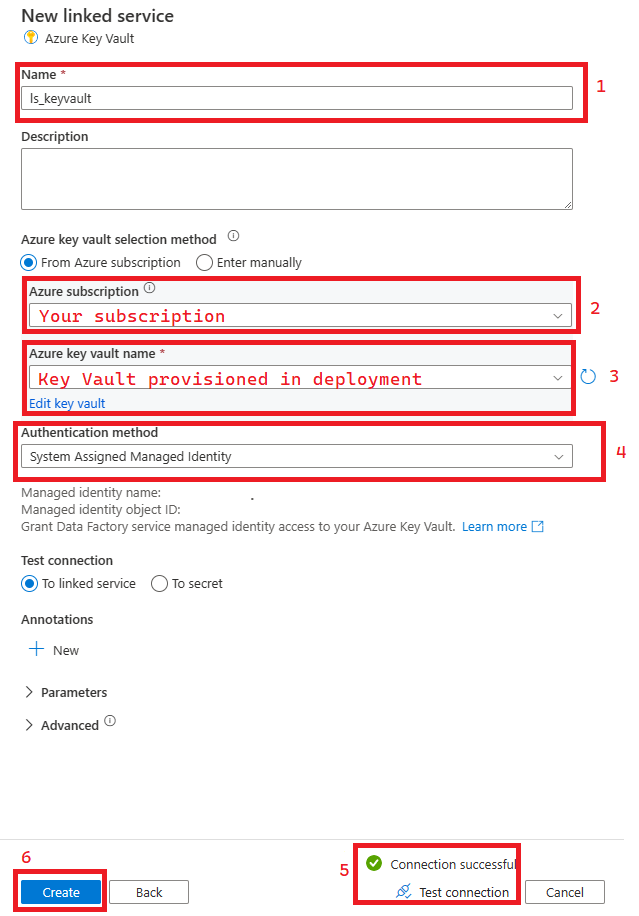
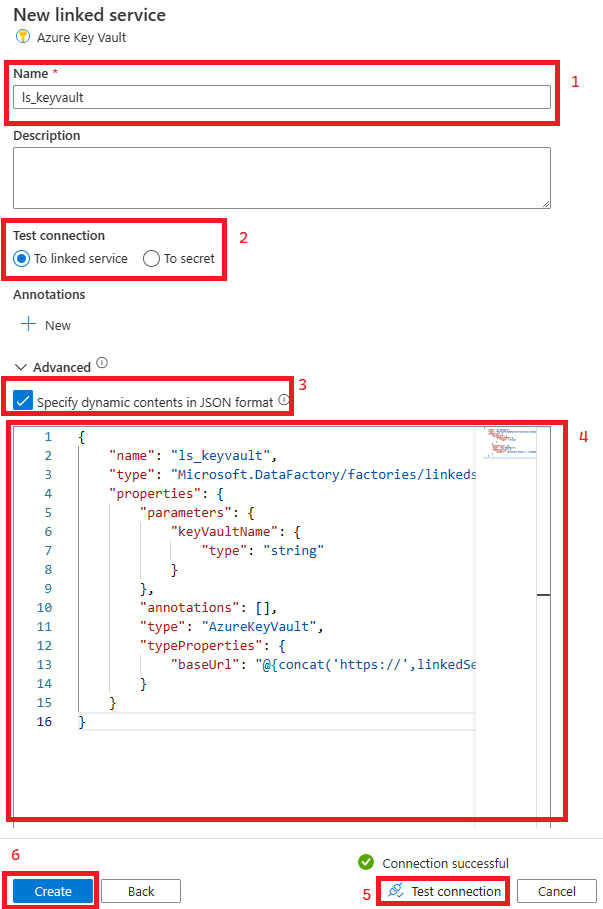
Added walkthrough for parameterized LS

diff --git a/docs/adf/linkedServices.md b/docs/adf/linkedServices.md
@@ -1,0 +1,51 @@
+## Set up Linked Services and Global Parameters in ADF
+### Summary
+Linked Services will define how we connect to the various integration points from Azure Data Factory. In this example, we'll set up connections to Azure Key Vault, Azure Data Lake Storage Gen 2, and the on-premesis filesystem residing on the Self Hosted Integration Runtime Virtual Machine. Per the recommendation, these linked services will be [highly parameterized](https://learn.microsoft.com/en-us/azure/data-factory/parameterize-linked-services?tabs=data-factory).
+
+### Steps
+#### Set up Azure Key Vault
+1) Set up a new Linked Services in Azure Data factory by following the steps in the image below.
+
+    ![](./images/linkedServices01.png)
+
+2) When the next screen comes up, search for and select Azure Key Vault.
+3) Name the service ls_keyvault, expand the advanced section, tick the box that says "Specify dynamic contents in JSON format", and paste in the contents of the [ls_keyvault.json](../../code/adf/linkedservices/ls_keyvault.json) file.
+   
+    ![](./images/linkedServices02.png)
+
+4) Test your connection and enter the name of your Key Vault when prompted. If your [Access Policies](../akv/setup.md) are set up correctly you should receive a message saying "Connection successful"
+
+#### Set up Azure Data Lake
+1) Add a new Linked Service.
+2) When pompted, search for and select Azure Data Lake Storage Gen2.
+3) Name the service ls_datalake and follow the same steps from the Key Vault linked service but copy the contents of the [ls_datalake.json](../../code/adf/linkedservices/ls_datalake.json) file into the box that appears after clicking "Specify dynamic contents in JSON format".
+4) Test your connection and enter the name of your Storage Account when prompted. If your [Storage Permissions ](../storage/addStorageMI.md) are set up correctly you should receive a message saying "Connection successful"
+
+#### Set up On Prem File System
+1) Add a new Linked Service.
+2) When prompted, search for and select File System.
+3) Name the service ls_onpremfs,**make sure you choose your Self Hosted Integration Runtime as the runtime**, expand the advanced section, tick the box that says "Specify dynamic contents in JSON format", and paste in the contents of the [ls_onpremfs.json](../../code/adf/linkedservices/ls_onpremfs.json) file.
+
+    ![](./images/linkedServices03.png)
+
+4) Test your connection and enter the parameters below. If the Self Hosted Integration Runtime and the Shared Folder are set up correctly you should receive a message saying "Connection successful". Click Create after a succesful test.
+
+    ![](./images/linkedServices04.png)
+
+5) **IMPORTANT** After you create the linked service, re-open it and un-check and re-check the "Specify dynamic contents in JSON" tick box. If you do not do this your pipelines will fail later on witha message about not being able to find the ls_keyvault Linked Service Reference.
+
+#### Set up Global Parameter
+1) Create a new Global Parameter by following the steps below.
+
+    ![](./images/globalParameters01.png)
+
+2) Name the Parameter metadataTableStorageName, give it a String type, and put the name of your Storage Account in the Value field.
+
+#### Publish the Linked Services and Global Parameter
+1) Click the Publish button in Azure Data Factory to deploy the Linked Services and Global Parameters.
+
+    ![](.images/../images/linkedServices05.png)
+
+2) Watch your notifications to ensure the Publishing succeeds.
+
+    ![](.images/../images/linkedServices06.png)

diff --git a/README.md b/README.md
@@ -11,8 +11,9 @@ The purpose of this repository is to allow you to simulate the process of bringi
 ## Steps
 1. [Clone the repository you're currently viewing into Visual Studio Code](https://learn.microsoft.com/en-us/azure/developer/javascript/how-to/with-visual-studio-code/clone-github-repository?tabs=create-repo-command-palette%2Cinitialize-repo-activity-bar%2Ccreate-branch-command-palette%2Ccommit-changes-command-palette%2Cpush-command-palette)
 2. [Deploy Resources to Sandbox Resource Group](./docs/deploy/README.md)
-3. [Prepare Azure Key Vault and Add Secrets](./docs/akv/setup.md)
-4. [Assign ADF Storage Blob Data Contributor on Storage](./docs/storage/addStorageMI.md)
+3. [Prepare Azure Key Vault, Add Secrets, ?and add to ADF? ](./docs/akv/setup.md)
+4. [Assign ADF Blob and Table Permissions on ADLS](./docs/storage/addStorageMI.md)
 5. [Create Self Hosted Integration Runtime in Azure Data Factory](./docs/adf/createShir.md)
 6. [Prepare Virtual Machine](./docs/shirvm/setup.md)
-7. [Set up Linked Services in ADF](./docs/adf/linkedServicesDatasets.md)
+7. [Set up Linked Services in ADF](./docs/adf/linkedServices.md)
+8. Set up datasets and pipelines

diff --git a/docs/shirvm/setup.md b/docs/shirvm/setup.md
@@ -38,7 +38,7 @@ A Self Hosted Integration Runtime differentiates itself from a regular Azure Int
 
       ![](./images/shirSetup05.png)
 
-9) Return to ADF and refresh your integration runtimes. Your Self Hosted Integration Runtime should now have the status of "Ready".
+9) Return to ADF and refresh your integration runtimes. Your Self Hosted Integration Runtime should now have the status of "Running".
 
 #### Create a Share
 1) Open File Explorer on the VM and navigate to the C:\ drive.

diff --git a/docs/storage/addStorageMI.md b/docs/storage/addStorageMI.md
@@ -21,3 +21,5 @@ This step walks through how to give Azure Data Factory's Managed Identity role b
 10) Watch your Portal notifications to ensure the Role Assignments are created correctly.
 
     ![](./images/addStorageMI03.png)
+
+11) Repeat the process in steps 1-10 and give the Azure Data Factory Managed Identity the **Storage Table Data Contributor** role.
